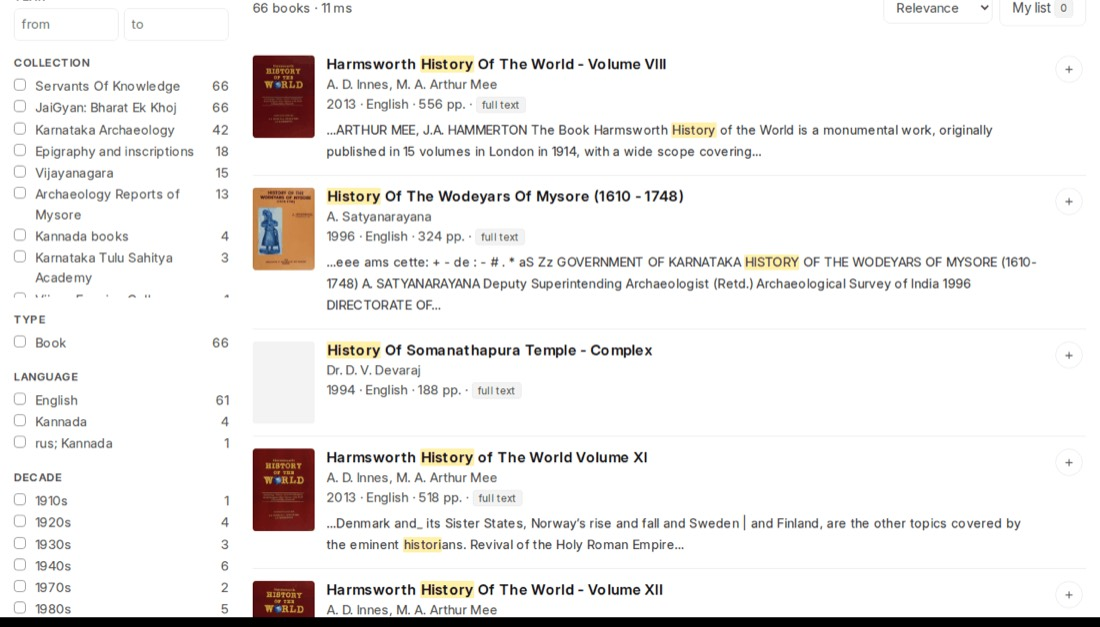
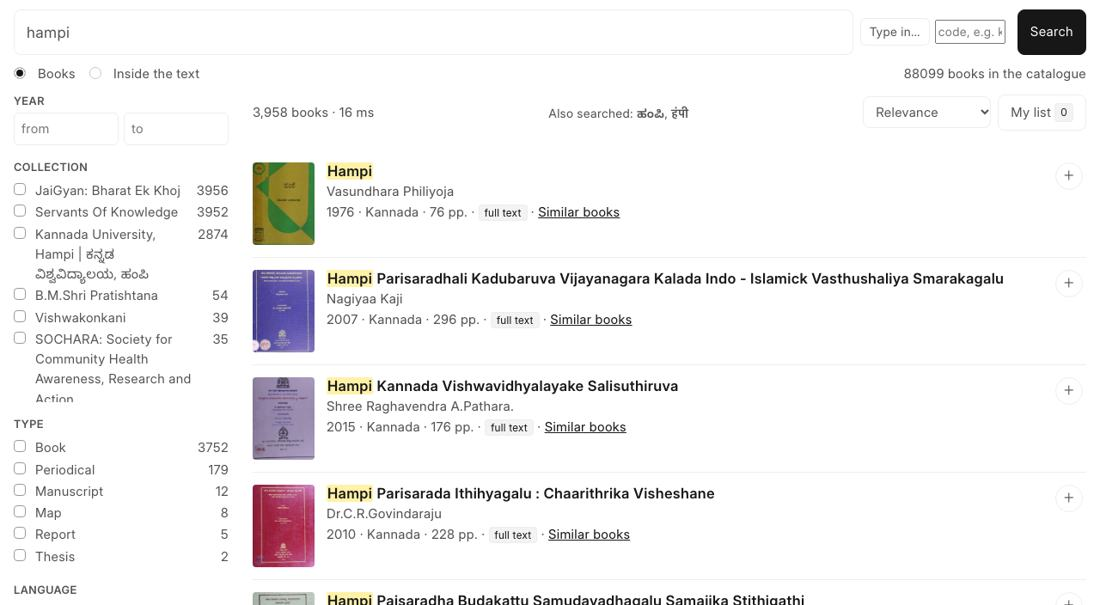
content: Research Desk screenshots show Kannada books from the live portal

diff --git a/research-desk.html b/research-desk.html
@@ -37,7 +37,7 @@
     <div class="rds"><div class="rs"><b>88,000+</b><span>books searchable page by page</span></div><div class="rs"><b>~3,000</b><span>books an hour with 4 workers</span></div><div class="rs"><b>7–32 ms</b><span>page search at 55,000 pages</span></div><div class="rs"><b>MIT</b><span>free software, built on Frappe</span></div></div>
   </div>
   <div class="strip rd-built"><div><span class="k">Built for</span><span class="pill">Libraries</span><span class="pill">Archives</span><span class="pill">Schools and colleges</span><span class="pill">Universities and research institutions</span><span class="pill soft-pill">Governments: optional governance edition</span></div></div>
-</div></section><section class="panel" id="see"><div class="md"><div class="md-list"><button data-md="s1" aria-selected="true"><b>The portal</b>Search inside every page, in the script or in Latin letters</button><button data-md="s2" aria-selected="false"><b>The reader</b>Read online, search inside the book, cite it in your format</button><button data-md="s3" aria-selected="false"><b>The Desk</b>For library staff: ingest, proofreading, preservation</button></div><div><div class="md-item active" id="s1"><figure class="shot"><div class="shot-bar"><i></i><i></i><i></i></div><img src="assets/img/rd-search.jpg" alt="Search results for a word, with page snippets and filters for collection, language and decade" loading="lazy"><figcaption>Results show the matching page text, with filters for collection, language and decade.</figcaption></figure></div><div class="md-item" id="s2"><figure class="shot"><div class="shot-bar"><i></i><i></i><i></i></div><img src="assets/img/rd-reader.jpg" alt="A book page in the reader, with a citation panel offering BibTeX, RIS, APA, MLA and more" loading="lazy"><figcaption>The reader, with search inside the book and citations in BibTeX, RIS, APA, MLA and more.</figcaption></figure></div><div class="md-item" id="s3"><figure class="shot"><div class="shot-bar"><i></i><i></i><i></i></div><img src="assets/img/rd-desk.jpg" alt="The Desk: a workspace with ingest profiles, items, collections, background jobs and settings" loading="lazy"><figcaption>The Desk gives library staff one place for the catalogue, ingest, readers and setup.</figcaption></figure></div></div></div></section><section class="panel" id="fits"><div class="cols c3 fitgrid"><div class="mini"><span class="k">Brings in</span><h4>Material from where it already lives</h4><div class="tags"><span class="tag">Internet Archive</span><span class="tag">Your own folders</span><span class="tag">Calibre</span><span class="tag">Institutional repositories</span><span class="tag">Wikisource</span><span class="tag">Deposits by people</span></div></div><div class="mini"><span class="k">How we handle OCR</span><h4>OCR is a first draft; a person checks it</h4><div class="chips"><span class="chip5">Machine draft</span><span class="chip5">Re-OCR</span><span class="chip5">Proofread</span><span class="chip5">Validated</span><span class="chip5">Ground truth</span></div></div><div class="mini"><span class="k">Works with other tools</span><h4>Koha, VuFind, Zotero and Mirador can read it</h4><div><span class="tag">OAI-PMH</span><span class="tag">IIIF</span><span class="tag">OPDS</span><span class="tag">SRU</span><span class="tag">MARCXML</span><span class="tag">Dublin Core</span><span class="tag">schema.org</span><span class="tag">Web Annotation</span></div></div><div class="mini"><span class="k">Gives back to</span><h4>Wikimedia projects</h4><div class="tags"><span class="tag">Wikidata</span><span class="tag">Wikisource</span><span class="tag">Wikimedia Commons</span></div></div><div class="mini"><span class="k">Where it fits</span><h4>The path from scanner to reader</h4><div class="chips"><span class="chip5">Open hardware</span><span class="chip5">OpenScribe</span><span class="chip5">Repub</span><span class="chip5 on">Research Desk</span></div></div><div class="mini"><span class="k">Runs on</span><h4>Free software, MIT licence</h4><div class="tags"><span class="tag">Frappe</span><span class="tag">MariaDB</span><span class="tag">Meilisearch</span></div></div></div></section><section class="panel" id="docs"><div class="cols c3 docgrid"><div class="mini"><span class="k">Readers</span><ul class="doclinks"><li><a href="https://github.com/ServantsOfKnowledge/researchdesk/blob/main/docs/reader-guide.md" target="_blank" rel="noopener">Using the library</a></li><li><a href="https://github.com/ServantsOfKnowledge/researchdesk/blob/main/docs/searching.md" target="_blank" rel="noopener">Searching</a></li><li><a href="https://github.com/ServantsOfKnowledge/researchdesk/blob/main/docs/citations.md" target="_blank" rel="noopener">Citations</a></li></ul></div><div class="mini"><span class="k">Library staff</span><ul class="doclinks"><li><a href="https://github.com/ServantsOfKnowledge/researchdesk/blob/main/docs/staff-guide.md" target="_blank" rel="noopener">Staff guide</a></li><li><a href="https://github.com/ServantsOfKnowledge/researchdesk/blob/main/docs/ingesting.md" target="_blank" rel="noopener">Ingesting books</a></li><li><a href="https://github.com/ServantsOfKnowledge/researchdesk/blob/main/docs/collections-and-metadata.md" target="_blank" rel="noopener">Collections and metadata</a></li></ul></div><div class="mini"><span class="k">Archives</span><ul class="doclinks"><li><a href="https://github.com/ServantsOfKnowledge/researchdesk/blob/main/docs/archival-description.md" target="_blank" rel="noopener">Archival description</a></li><li><a href="https://github.com/ServantsOfKnowledge/researchdesk/blob/main/docs/manuscripts.md" target="_blank" rel="noopener">Manuscripts</a></li><li><a href="https://github.com/ServantsOfKnowledge/researchdesk/blob/main/docs/photographs.md" target="_blank" rel="noopener">Photographs</a></li><li><a href="https://github.com/ServantsOfKnowledge/researchdesk/blob/main/docs/audio-video.md" target="_blank" rel="noopener">Audio and video</a></li></ul></div><div class="mini"><span class="k">Government and institutions</span><ul class="doclinks"><li><a href="https://github.com/ServantsOfKnowledge/researchdesk/blob/main/docs/governance.md" target="_blank" rel="noopener">Governance</a></li><li><a href="https://github.com/ServantsOfKnowledge/researchdesk/blob/main/docs/access.md" target="_blank" rel="noopener">Who can see what</a></li></ul></div><div class="mini"><span class="k">Administrators</span><ul class="doclinks"><li><a href="https://github.com/ServantsOfKnowledge/researchdesk/blob/main/docs/installation.md" target="_blank" rel="noopener">Installation</a></li><li><a href="https://github.com/ServantsOfKnowledge/researchdesk/blob/main/docs/server.md" target="_blank" rel="noopener">Server</a></li><li><a href="https://github.com/ServantsOfKnowledge/researchdesk/blob/main/docs/operations.md" target="_blank" rel="noopener">Operations</a></li><li><a href="https://github.com/ServantsOfKnowledge/researchdesk/blob/main/docs/scaling.md" target="_blank" rel="noopener">Scaling</a></li></ul></div><div class="mini"><span class="k">Developers</span><ul class="doclinks"><li><a href="https://github.com/ServantsOfKnowledge/researchdesk/blob/main/docs/architecture.md" target="_blank" rel="noopener">Architecture</a></li><li><a href="https://github.com/ServantsOfKnowledge/researchdesk/blob/main/docs/technology.md" target="_blank" rel="noopener">Technology map</a></li><li><a href="https://github.com/ServantsOfKnowledge/researchdesk/blob/main/docs/development.md" target="_blank" rel="noopener">Development</a></li><li><a href="https://github.com/ServantsOfKnowledge/researchdesk/blob/main/docs/api.md" target="_blank" rel="noopener">API</a></li></ul></div></div><p class="doc-foot">Every page is also inside the app, under Help. <a href="https://github.com/ServantsOfKnowledge/researchdesk/blob/main/docs/README.md" target="_blank" rel="noopener">Docs index</a> · <a href="https://github.com/ServantsOfKnowledge/researchdesk/blob/main/docs/features.md" target="_blank" rel="noopener">Everything it does</a> · <a href="https://github.com/ServantsOfKnowledge/researchdesk" target="_blank" rel="noopener">GitHub</a></p></section><section class="panel" id="install"><div class="cols c2 inst"><div class="inst-steps"><div class="mini"><span class="k">1 · Check</span><h4>About 20 minutes, mostly waiting</h4><p>Needs 4 GB of free memory, 10 GB of disk, and Docker. A native install works on macOS or Ubuntu.</p></div><div class="mini"><span class="k">2 · Install</span><h4>One script asks a few questions</h4><p>Press Enter for the defaults. It prints the portal and Desk addresses and the administrator’s password.</p></div><div class="mini"><span class="k">3 · Ingest</span><h4>Choose what goes in</h4><p>In the Desk, open Ingest Profiles, then keep the library current with the upgrade script.</p></div></div><div class="inst-code"><pre><code><span class="c"># get it</span>
+</div></section><section class="panel" id="see"><div class="md"><div class="md-list"><button data-md="s1" aria-selected="true"><b>The portal</b>Search inside every page, in the script or in Latin letters</button><button data-md="s2" aria-selected="false"><b>The reader</b>Read online, search inside the book, cite it in your format</button><button data-md="s3" aria-selected="false"><b>The Desk</b>For library staff: ingest, proofreading, preservation</button></div><div><div class="md-item active" id="s1"><figure class="shot"><div class="shot-bar"><i></i><i></i><i></i></div><img src="assets/img/rd-search.jpg" alt="Search for hampi in the live portal: 3,958 Kannada and other books, also found as ಹಂಪಿ, with filters for collection, type and language" loading="lazy"><figcaption>Searching hampi also finds ಹಂಪಿ: 3,958 books in 16 ms, with filters for collection, type and language.</figcaption></figure></div><div class="md-item" id="s2"><figure class="shot"><div class="shot-bar"><i></i><i></i><i></i></div><img src="assets/img/rd-reader.jpg" alt="A Kannada book page in the portal, with Read, Download PDF, Cite and Add to my list, and a search box inside the book" loading="lazy"><figcaption>A Kannada book in the portal: read it online, search inside it, cite it and add it to a reading list.</figcaption></figure></div><div class="md-item" id="s3"><figure class="shot"><div class="shot-bar"><i></i><i></i><i></i></div><img src="assets/img/rd-desk.jpg" alt="The Desk: a workspace with ingest profiles, items, collections, background jobs and settings" loading="lazy"><figcaption>The Desk gives library staff one place for the catalogue, ingest, readers and setup.</figcaption></figure></div></div></div></section><section class="panel" id="fits"><div class="cols c3 fitgrid"><div class="mini"><span class="k">Brings in</span><h4>Material from where it already lives</h4><div class="tags"><span class="tag">Internet Archive</span><span class="tag">Your own folders</span><span class="tag">Calibre</span><span class="tag">Institutional repositories</span><span class="tag">Wikisource</span><span class="tag">Deposits by people</span></div></div><div class="mini"><span class="k">How we handle OCR</span><h4>OCR is a first draft; a person checks it</h4><div class="chips"><span class="chip5">Machine draft</span><span class="chip5">Re-OCR</span><span class="chip5">Proofread</span><span class="chip5">Validated</span><span class="chip5">Ground truth</span></div></div><div class="mini"><span class="k">Works with other tools</span><h4>Koha, VuFind, Zotero and Mirador can read it</h4><div><span class="tag">OAI-PMH</span><span class="tag">IIIF</span><span class="tag">OPDS</span><span class="tag">SRU</span><span class="tag">MARCXML</span><span class="tag">Dublin Core</span><span class="tag">schema.org</span><span class="tag">Web Annotation</span></div></div><div class="mini"><span class="k">Gives back to</span><h4>Wikimedia projects</h4><div class="tags"><span class="tag">Wikidata</span><span class="tag">Wikisource</span><span class="tag">Wikimedia Commons</span></div></div><div class="mini"><span class="k">Where it fits</span><h4>The path from scanner to reader</h4><div class="chips"><span class="chip5">Open hardware</span><span class="chip5">OpenScribe</span><span class="chip5">Repub</span><span class="chip5 on">Research Desk</span></div></div><div class="mini"><span class="k">Runs on</span><h4>Free software, MIT licence</h4><div class="tags"><span class="tag">Frappe</span><span class="tag">MariaDB</span><span class="tag">Meilisearch</span></div></div></div></section><section class="panel" id="docs"><div class="cols c3 docgrid"><div class="mini"><span class="k">Readers</span><ul class="doclinks"><li><a href="https://github.com/ServantsOfKnowledge/researchdesk/blob/main/docs/reader-guide.md" target="_blank" rel="noopener">Using the library</a></li><li><a href="https://github.com/ServantsOfKnowledge/researchdesk/blob/main/docs/searching.md" target="_blank" rel="noopener">Searching</a></li><li><a href="https://github.com/ServantsOfKnowledge/researchdesk/blob/main/docs/citations.md" target="_blank" rel="noopener">Citations</a></li></ul></div><div class="mini"><span class="k">Library staff</span><ul class="doclinks"><li><a href="https://github.com/ServantsOfKnowledge/researchdesk/blob/main/docs/staff-guide.md" target="_blank" rel="noopener">Staff guide</a></li><li><a href="https://github.com/ServantsOfKnowledge/researchdesk/blob/main/docs/ingesting.md" target="_blank" rel="noopener">Ingesting books</a></li><li><a href="https://github.com/ServantsOfKnowledge/researchdesk/blob/main/docs/collections-and-metadata.md" target="_blank" rel="noopener">Collections and metadata</a></li></ul></div><div class="mini"><span class="k">Archives</span><ul class="doclinks"><li><a href="https://github.com/ServantsOfKnowledge/researchdesk/blob/main/docs/archival-description.md" target="_blank" rel="noopener">Archival description</a></li><li><a href="https://github.com/ServantsOfKnowledge/researchdesk/blob/main/docs/manuscripts.md" target="_blank" rel="noopener">Manuscripts</a></li><li><a href="https://github.com/ServantsOfKnowledge/researchdesk/blob/main/docs/photographs.md" target="_blank" rel="noopener">Photographs</a></li><li><a href="https://github.com/ServantsOfKnowledge/researchdesk/blob/main/docs/audio-video.md" target="_blank" rel="noopener">Audio and video</a></li></ul></div><div class="mini"><span class="k">Government and institutions</span><ul class="doclinks"><li><a href="https://github.com/ServantsOfKnowledge/researchdesk/blob/main/docs/governance.md" target="_blank" rel="noopener">Governance</a></li><li><a href="https://github.com/ServantsOfKnowledge/researchdesk/blob/main/docs/access.md" target="_blank" rel="noopener">Who can see what</a></li></ul></div><div class="mini"><span class="k">Administrators</span><ul class="doclinks"><li><a href="https://github.com/ServantsOfKnowledge/researchdesk/blob/main/docs/installation.md" target="_blank" rel="noopener">Installation</a></li><li><a href="https://github.com/ServantsOfKnowledge/researchdesk/blob/main/docs/server.md" target="_blank" rel="noopener">Server</a></li><li><a href="https://github.com/ServantsOfKnowledge/researchdesk/blob/main/docs/operations.md" target="_blank" rel="noopener">Operations</a></li><li><a href="https://github.com/ServantsOfKnowledge/researchdesk/blob/main/docs/scaling.md" target="_blank" rel="noopener">Scaling</a></li></ul></div><div class="mini"><span class="k">Developers</span><ul class="doclinks"><li><a href="https://github.com/ServantsOfKnowledge/researchdesk/blob/main/docs/architecture.md" target="_blank" rel="noopener">Architecture</a></li><li><a href="https://github.com/ServantsOfKnowledge/researchdesk/blob/main/docs/technology.md" target="_blank" rel="noopener">Technology map</a></li><li><a href="https://github.com/ServantsOfKnowledge/researchdesk/blob/main/docs/development.md" target="_blank" rel="noopener">Development</a></li><li><a href="https://github.com/ServantsOfKnowledge/researchdesk/blob/main/docs/api.md" target="_blank" rel="noopener">API</a></li></ul></div></div><p class="doc-foot">Every page is also inside the app, under Help. <a href="https://github.com/ServantsOfKnowledge/researchdesk/blob/main/docs/README.md" target="_blank" rel="noopener">Docs index</a> · <a href="https://github.com/ServantsOfKnowledge/researchdesk/blob/main/docs/features.md" target="_blank" rel="noopener">Everything it does</a> · <a href="https://github.com/ServantsOfKnowledge/researchdesk" target="_blank" rel="noopener">GitHub</a></p></section><section class="panel" id="install"><div class="cols c2 inst"><div class="inst-steps"><div class="mini"><span class="k">1 · Check</span><h4>About 20 minutes, mostly waiting</h4><p>Needs 4 GB of free memory, 10 GB of disk, and Docker. A native install works on macOS or Ubuntu.</p></div><div class="mini"><span class="k">2 · Install</span><h4>One script asks a few questions</h4><p>Press Enter for the defaults. It prints the portal and Desk addresses and the administrator’s password.</p></div><div class="mini"><span class="k">3 · Ingest</span><h4>Choose what goes in</h4><p>In the Desk, open Ingest Profiles, then keep the library current with the upgrade script.</p></div></div><div class="inst-code"><pre><code><span class="c"># get it</span>
 git clone https://github.com/ServantsOfKnowledge/researchdesk.git
 cd researchdesk
 
